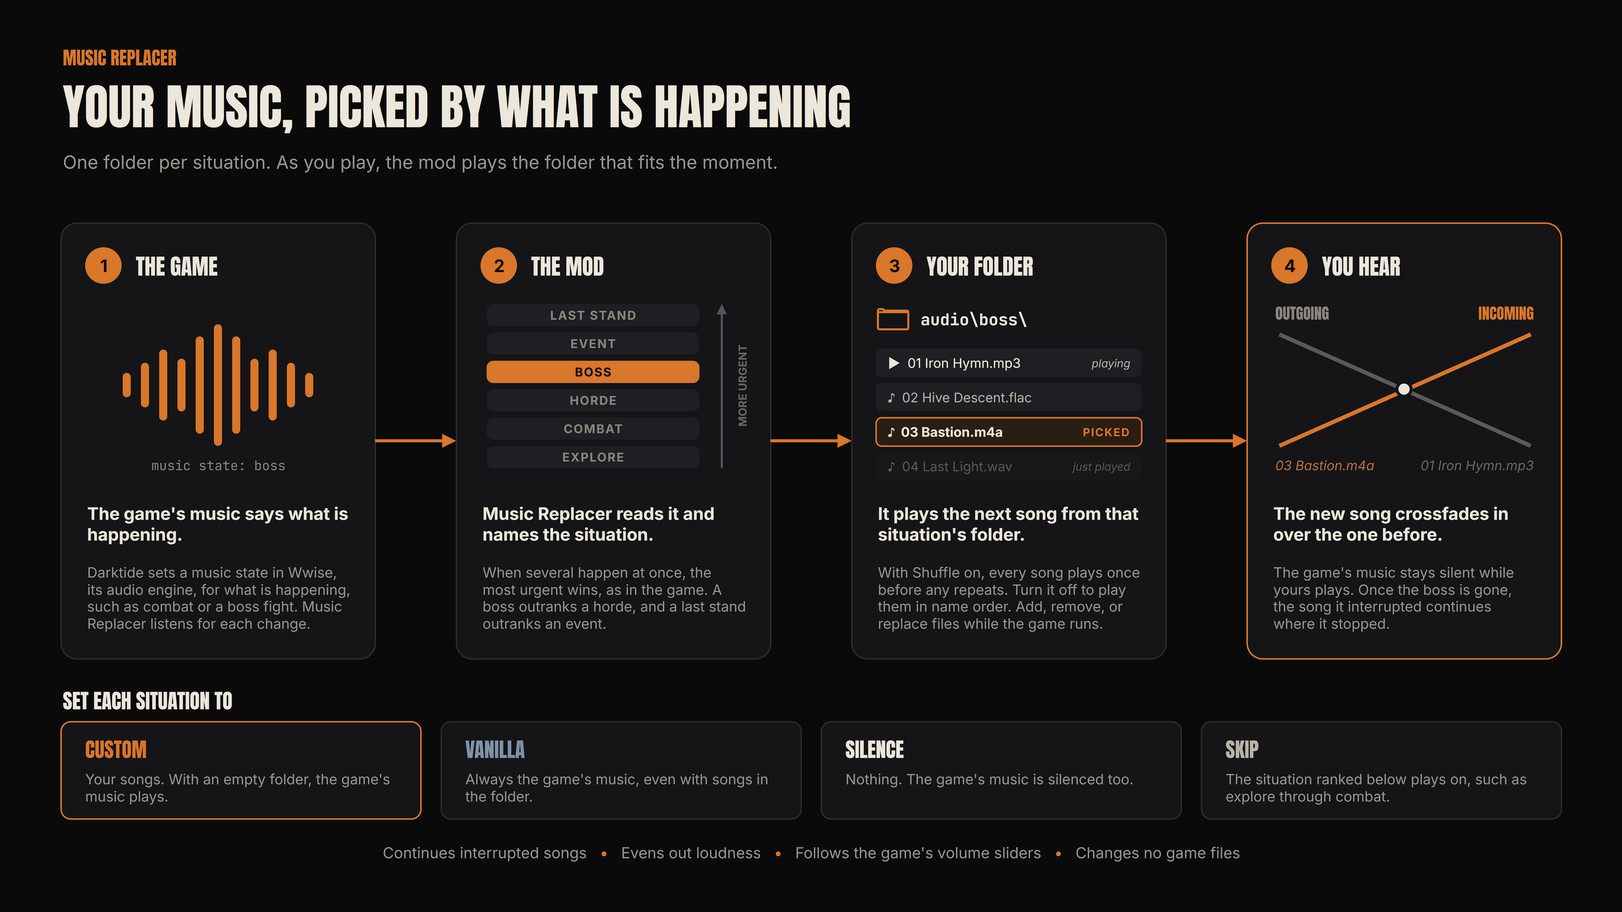
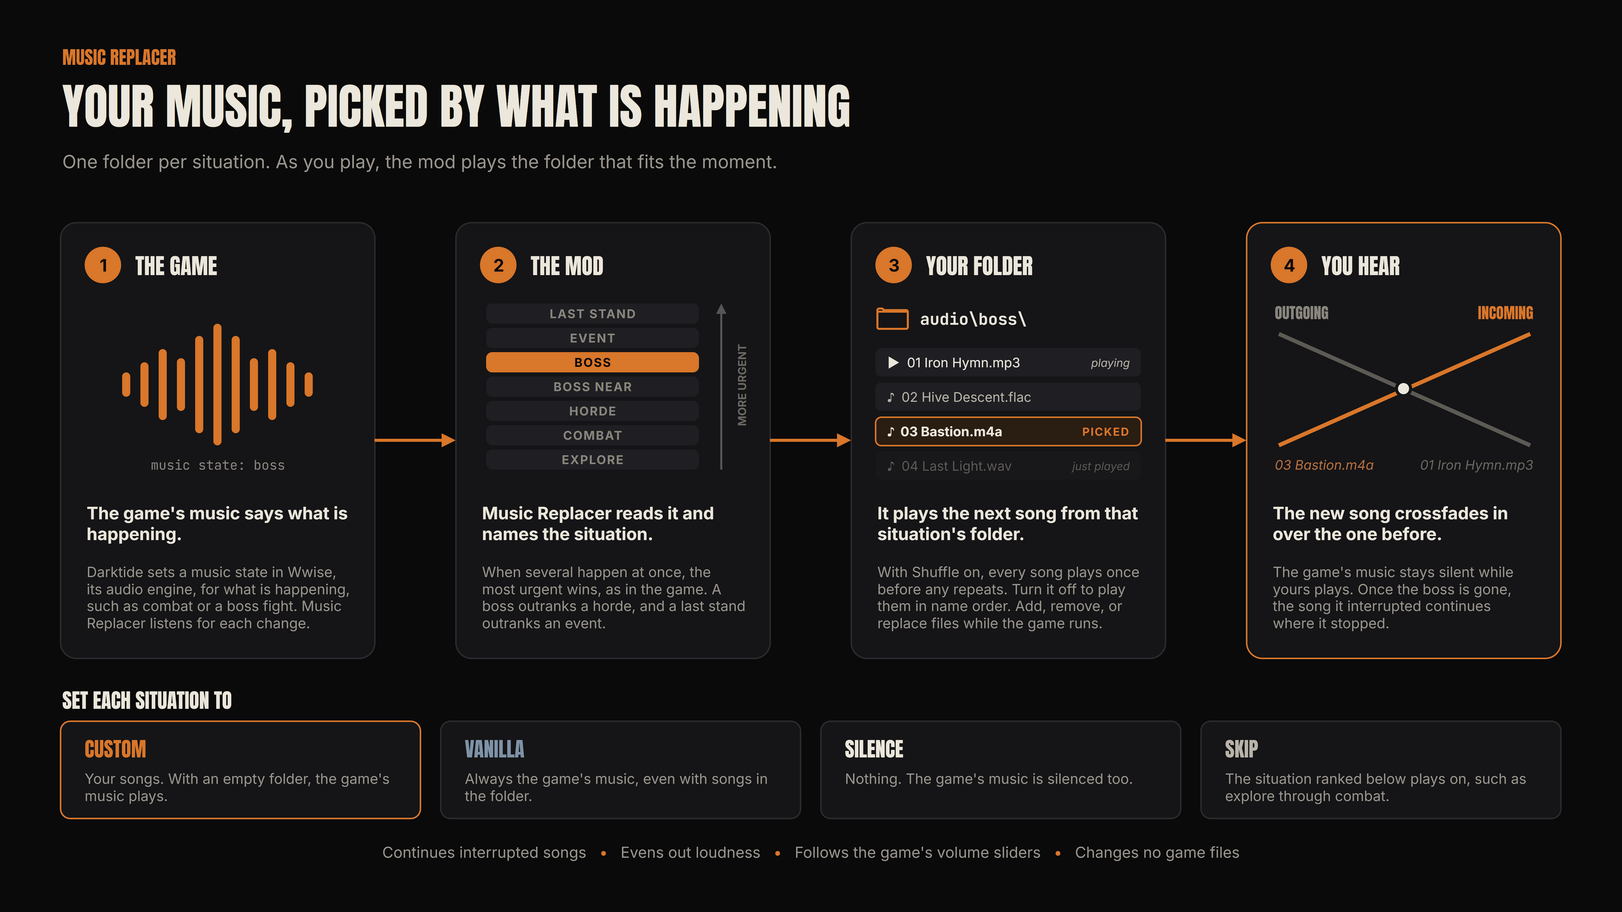
docs: call the situation Boss Near
The docs and the How it works image use the situation's new name.

Refs #6

diff --git a/docs/settings.md b/docs/settings.md
@@ -18,7 +18,7 @@ Every setting of Music Replacer, with its default. The settings are in the in-ga
 | Shuffle | On | Plays each folder's songs in a random order, each once before any song repeats. A new round never starts with the song that ended the last one. A folder's round lasts until the game closes, so a short visit to a situation does not start it over. Turned off, each folder plays in the order File Explorer sorts it by name, where `2.mp3` comes before `10.mp3`, and starts over after its last song. A folder continues after the song it played last. A change takes effect at the next song. Turning Shuffle on also starts [Previous Song](#playback-controls) with no earlier songs, as a new situation does. |
 | Repeat Song | Off | Loops the song playing now with no gap added between its end and its start, and every song that starts after it, in any situation. Next Song, Previous Song, and a new situation still change the song. A change takes effect on the song playing now. Turned on in a song's last 4 seconds, the song starts over once it ends, and loops from then on. Turned off at that point after the song has looped, it plays through once more. A folder's only song loops whether it is on or off. |
 | Let Songs Finish | Off | When the music would switch to a situation that is no more urgent, such as from Combat back to Explore, the song playing now plays to its end first, and then that situation takes over. A looping song plays to the end of the pass it is in. A switch to a more urgent situation still happens at once, and so does a switch to the game's music, to silence, or to a situation with no songs. If the song's own situation comes back before the song ends, the song plays on as before. Next Song ends the wait at once, and so does turning the setting off. The debug overlay's Waiting row shows the situation that waits, such as `explore after this song`. |
-| Resume Songs | On | Explore, Combat, Mortis Trials Wave and Break, Expedition Combat, and Expedition Safe Room songs continue where they stopped when their music comes back. Horde, Boss Approaching, Boss, and Event songs also continue after an interruption by more urgent music, such as a boss during a horde or a last stand during an event, as long as that horde, boss, or event lasts. A new horde, boss fight, or event gets a new pick. A song that stopped in its last 10 seconds is not continued, unless it loops. A new song is picked once one ends on its own. Every mission and hub visit starts with fresh songs. Within one situation, a song from an override folder also continues when the music switches back to that folder, such as an Operation's stage or an Expedition's fight level. |
+| Resume Songs | On | Explore, Combat, Mortis Trials Wave and Break, Expedition Combat, and Expedition Safe Room songs continue where they stopped when their music comes back. Horde, Boss Near, Boss, and Event songs also continue after an interruption by more urgent music, such as a boss during a horde or a last stand during an event, as long as that horde, boss, or event lasts. A new horde, boss fight, or event gets a new pick. A song that stopped in its last 10 seconds is not continued, unless it loops. A new song is picked once one ends on its own. Every mission and hub visit starts with fresh songs. Within one situation, a song from an override folder also continues when the music switches back to that folder, such as an Operation's stage or an Expedition's fight level. |
 | Fade Length | 2 seconds | How long the music crossfades when the situation changes, and how long a song fades out at its end, from 0 to 10 seconds. A song that does not loop starts its end fade that long before it ends. A song loops when it is alone in its folder or [Repeat Song](#playback) is on. A song shorter than two fades fades in over its first half and out over its second. A song that gives way to the game's music or to silence always fades out over half a second. Set it to 0 to switch at once. |
 
 ## Playback Controls
@@ -99,17 +99,17 @@ The group shows one Situation dropdown, Explore by default, which lists every si
 
 | Setting | Default | What it does |
 |---|---|---|
-| Boss Music for Captains | Off | Counts captains as bosses, for Boss Approaching while one is near and Boss from its HP bar until the game reports it gone. A captain that comes as part of a mission event, such as the Karnak Twins, plays Event instead, which is more urgent than Boss. Off follows the game, which plays no boss music for captains. |
-| Boss Music for Weakened Monstrosities | Off | Counts weakened monstrosities as bosses, for Boss Approaching and Boss. A weakened monstrosity is one the game spawns with less than its full health. Off follows the game, which plays no boss music for weakened monstrosities. |
-| Boss Music for Daemonhosts | Off | Counts daemonhosts as bosses, for Boss Approaching while one is within Daemonhost Distance and Boss from its HP bar, which shows once it is angered, until the game reports it gone. Off follows the game, which plays no boss music for daemonhosts. |
-| Boss Distance | 80 m | How close a boss has to be for Boss Approaching to play, from 20 m to 160 m. It lets go once the boss is 40 m farther away than that, so moving back and forth at the edge keeps the music steady. The default is the distance the game's own boss music uses. Daemonhosts use Daemonhost Distance instead. |
-| Daemonhost Distance | 20 m | How close a daemonhost has to be for Boss Approaching to play, from 5 m to 80 m, with Boss Music for Daemonhosts on. It lets go once the daemonhost is 40 m farther away than that. The default is shorter than Boss Distance, since some levels keep you near a sleeping daemonhost for a long time. |
+| Boss Music for Captains | Off | Counts captains as bosses, for Boss Near while one is near and Boss from its HP bar until the game reports it gone. A captain that comes as part of a mission event, such as the Karnak Twins, plays Event instead, which is more urgent than Boss. Off follows the game, which plays no boss music for captains. |
+| Boss Music for Weakened Monstrosities | Off | Counts weakened monstrosities as bosses, for Boss Near and Boss. A weakened monstrosity is one the game spawns with less than its full health. Off follows the game, which plays no boss music for weakened monstrosities. |
+| Boss Music for Daemonhosts | Off | Counts daemonhosts as bosses, for Boss Near while one is within Daemonhost Distance and Boss from its HP bar, which shows once it is angered, until the game reports it gone. Off follows the game, which plays no boss music for daemonhosts. |
+| Boss Distance | 80 m | How close a boss has to be for Boss Near to play, from 20 m to 160 m. It lets go once the boss is 40 m farther away than that, so moving back and forth at the edge keeps the music steady. The default is the distance the game's own boss music uses. Daemonhosts use Daemonhost Distance instead. |
+| Daemonhost Distance | 20 m | How close a daemonhost has to be for Boss Near to play, from 5 m to 80 m, with Boss Music for Daemonhosts on. It lets go once the daemonhost is 40 m farther away than that. The default is shorter than Boss Distance, since some levels keep you near a sleeping daemonhost for a long time. |
 
 ## Music Holds
 
 Each hold goes from 0 to 30 seconds. Set one to 0 to follow the game exactly.
 
-A hold is there for a signal that the game turns off and on again within what is one stretch of music. Boss and Boss Approaching need none. A boss's HP bar never drops while it lives, and a boss stays near until it is 40 m beyond its distance, which keeps that music steady by distance instead.
+A hold is there for a signal that the game turns off and on again within what is one stretch of music. Boss and Boss Near need none. A boss's HP bar never drops while it lives, and a boss stays near until it is 40 m beyond its distance, which keeps that music steady by distance instead.
 
 | Setting | Default | What it does |
 |---|---|---|

diff --git a/README.md b/README.md
@@ -30,7 +30,7 @@ Everything below is optional detail.
 | …make my songs louder or quieter. | Change Custom Music Volume in the Volume group. For one situation alone, pick it under Music per Situation and change its Volume. |
 | …keep the game's music in one situation. | Leave its folder empty, or set it to Vanilla under Music per Situation in the mod options. |
 | …have no music at all in one situation. | Set it to Silence under Music per Situation. |
-| …hear boss music only once the fight starts. | Set Boss Approaching to Skip under Music per Situation. Your `boss` songs then start with the boss's HP bar. |
+| …hear boss music only once the fight starts. | Set Boss Near to Skip under Music per Situation. Your `boss` songs then start with the boss's HP bar. |
 | …hear boss music sooner or later as a boss comes near. | Change Boss Distance in the Boss Music group, 80 m by default. |
 | …hear no boss music, only what plays around it. | Set Boss to Skip under Music per Situation. Skip works for the other mission situations too, as [Choosing what plays](#choosing-what-plays) lists. |
 | …hear my own music in cutscenes. | Put songs into `cutscene` and set Cutscene to Custom under Music per Situation, since cutscenes keep the game's music by default. |
@@ -87,7 +87,7 @@ In a mission, the most urgent situation going on plays. From the most urgent dow
 1. Last Stand.
 2. Event, Mortis Trials Wave, and Expedition Extraction.
 3. Boss.
-4. Boss Approaching.
+4. Boss Near.
 5. Horde.
 6. Combat and Expedition Combat.
 7. Explore, Mortis Trials Break, and Expedition Safe Room.
@@ -106,7 +106,7 @@ Victory and Defeat take over from all of them.
 | **`explore`** | In a mission while nothing threatens you. |
 | **`combat`** | In a mission while enemies attack you, outside a horde or a boss fight. |
 | **`horde`** | During a horde. |
-| `boss_approaching` | While a boss is near you, before its fight starts. A boss comes near within Boss Distance, 80 m by default, the distance the game's own boss music uses, and stays near until it is 40 m farther away than that, or gone. It is more urgent than a horde, as the game's own boss music is. With its folder empty, it does what Boss is set to, so your `boss` songs start as the boss comes near and go on playing into the fight. |
+| `boss_near` | While a boss is near you, before its fight starts. A boss comes near within Boss Distance, 80 m by default, the distance the game's own boss music uses, and stays near until it is 40 m farther away than that, or gone. It is more urgent than a horde, as the game's own boss music is. With its folder empty, it does what Boss is set to, so your `boss` songs start as the boss comes near and go on playing into the fight. |
 | **`boss`** | In a boss fight, from the moment the boss's HP bar shows until the game reports the boss gone. A Chaos Spawn, a Beast of Nurgle, or a Plague Ogryn shows it once it is first hurt, and an Ogryn Houndmaster once it notices you. Captains and daemonhosts count only with their settings on, and so do weakened monstrosities, which the game's own boss music leaves out. A boss that shows no HP bar, such as Rodin Karnak in Spillway, has no Boss, and his fight plays `event`. Neither boss folder plays in an Expedition, which keeps to its own situations. |
 | `event` | While a mission event plays its music, such as a holdout, a hacking event, an escape, or a scripted boss fight like those in Spillway. It is more urgent than Boss, Horde, Combat, and Explore, as the game's own event music is. In Operations, such as Rolling Steel and No Man's Land, it plays for the whole mission, since the game scripts their music from start to end. The prologue, Tancred Bastion, scripts its music the same way, so it mostly plays this folder too. |
 | `last_stand` | While only one player of the team is left alive. It is more urgent than every other mission situation. Victory and Defeat still take over. |
@@ -132,7 +132,7 @@ The Music per Situation group has a Situation dropdown that lists every folder a
 | Custom | Your songs from the situation's folder. With an empty folder, the game's music plays. This is the default for every situation but Cutscene. |
 | Vanilla | Always the game's music, even with songs in the folder, so you can turn one situation off without moving files. |
 | Silence | Nothing. The game's music is silenced too. |
-| Skip | The next less urgent situation, as if this one were not going on, such as Explore through fights with Combat skipped. While your songs or silence play instead, the skipped situation's own game music stays silenced. With that situation set to Vanilla, the game's music plays as the game picks it. Skip is offered for Combat, Horde, Boss Approaching, Boss, Event, Last Stand, Mortis Trials Wave, Expedition Combat, and Expedition Extraction. |
+| Skip | The next less urgent situation, as if this one were not going on, such as Explore through fights with Combat skipped. While your songs or silence play instead, the skipped situation's own game music stays silenced. With that situation set to Vanilla, the game's music plays as the game picks it. Skip is offered for Combat, Horde, Boss Near, Boss, Event, Last Stand, Mortis Trials Wave, Expedition Combat, and Expedition Extraction. |
 
 A changed choice applies at once, even to the situation that is playing.
 

diff --git a/docs/wwise-events.md b/docs/wwise-events.md
@@ -21,7 +21,7 @@ The game's settings also list `music_game_state` values that have not shown up i
 
 Wwise reports "no value" as the word `None`.
 
-* `music_combat` is `normal` while enemies are attacking you. It flips back to `None` every few seconds in a fight, and the Combat Music Hold setting bridges those gaps. `horde_low` and `horde_high` mean a horde is on you. Every horde starts at `horde_high` and drops to `horde_low` as it thins out. The game reports a horde only while at least 5 enemies are aggroed, and the Horde Music Hold setting bridges the moments it drops out. `boss` means a monstrosity has come within 80 m, and the game then keeps it, in place of the other values, for as long as more monstrosities than daemonhosts are alive, wherever they are. So the mod asks the game's own combat check again without its boss check, and combat and hordes follow that answer under it. The boss situations follow the bosses themselves: Boss Approaching their distance, and Boss their encounter windows. In an Expedition, the group carries the Expedition values in place of the others. These values follow how alert the enemy is, not how hard the fight is. The mod resolves `low_combat`, `med_combat`, and `high_combat` as `expedition_combat`, `safe_room` as `expedition_safe_room`, `extraction` as `expedition_extraction`, and `no_combat` as `explore`. The Combat Music Hold setting covers `expedition_combat` too.
+* `music_combat` is `normal` while enemies are attacking you. It flips back to `None` every few seconds in a fight, and the Combat Music Hold setting bridges those gaps. `horde_low` and `horde_high` mean a horde is on you. Every horde starts at `horde_high` and drops to `horde_low` as it thins out. The game reports a horde only while at least 5 enemies are aggroed, and the Horde Music Hold setting bridges the moments it drops out. `boss` means a monstrosity has come within 80 m, and the game then keeps it, in place of the other values, for as long as more monstrosities than daemonhosts are alive, wherever they are. So the mod asks the game's own combat check again without its boss check, and combat and hordes follow that answer under it. The boss situations follow the bosses themselves: Boss Near their distance, and Boss their encounter windows. In an Expedition, the group carries the Expedition values in place of the others. These values follow how alert the enemy is, not how hard the fight is. The mod resolves `low_combat`, `med_combat`, and `high_combat` as `expedition_combat`, `safe_room` as `expedition_safe_room`, `extraction` as `expedition_extraction`, and `no_combat` as `explore`. The Combat Music Hold setting covers `expedition_combat` too.
 * `music_zone` names the hub or the mission's area. It arrives before the music can start. The hub zone arrives about 10 seconds before the loading screen ends, and a mission zone partway through the briefing.
 * `music_game_state` says where the player is, as the table below lays out.
 * `music_objective` carries the last stand and mission event music. Some events set it to `None` for a few seconds between their stages, which the Event Music Hold setting bridges.
@@ -87,10 +87,10 @@ These lines also show up with Detailed Logging on:
 |---|---|
 | `[hold] combat quiet, holding combat for 8.0s more` | The game's state for that context went quiet, and its Music Holds setting keeps the context for the seconds shown. |
 | `[raw] music_combat under boss: None -> normal` | What the game's combat check reports with its boss check left out, while `music_combat` is `boss`. Combat and hordes follow it. |
-| `[boss] chaos_spawn approaching, 78 m away` | A boss came within its distance, so Boss Approaching can play. `which plays no boss music by its setting` follows for a captain, daemonhost, or weakened monstrosity whose setting is off. |
+| `[boss] chaos_spawn near, 78 m away` | A boss came within its distance, so Boss Near can play. `which plays no boss music by its setting` follows for a captain, daemonhost, or weakened monstrosity whose setting is off. |
 | `[boss] chaos_spawn let go, 121 m away` | That boss got more than 40 m farther away than its distance. |
 | `[raw] boss_encounter_start breed=chaos_spawn` | A boss's encounter window opened with its HP bar, named by its breed, and Boss starts if the boss counts. `weakened` follows for a weakened monstrosity. A breed that counts as a boss names the `boss` override folder. |
-| `[raw] boss_encounter_end breed=chaos_spawn` | That window closed, once the boss died or despawned, so its Boss ends and it no longer approaches. After a death, it can come a few seconds after the boss probe's `gone` line. |
+| `[raw] boss_encounter_end breed=chaos_spawn` | That window closed, once the boss died or despawned, so its Boss ends and it is no longer near. After a death, it can come a few seconds after the boss probe's `gone` line. |
 
 ## The boss probe
 

diff --git a/CHANGELOG.md b/CHANGELOG.md
@@ -12,7 +12,7 @@ What changes for players in each release of Music Replacer. The format follows [
 * A notice says how many songs the mod found and in how many folders, such as `Found 128 songs in 9 folders.`, once it has checked them at launch, after Rescan Audio Folders, and after your files change. With no songs, it says where to put them. When files were skipped, a second notice says how many and why: a format the mod does not play, such as `.ogg` or `.opus`, or a file Windows cannot open. `diagnostic.log` names each one.
 * A notice says how many songs Even Out Loudness measured once it has measured every song that needed it, such as `Even Out Loudness measured 12 songs.` Nothing shows when no song needed measuring.
 * A Toggle Debug Overlay key in the Debug group shows or hides the debug overlay, so you can check it in a mission without opening the mod options. It starts unbound.
-* Boss Approaching is a situation of its own, with a `boss_approaching` folder, for a boss that is near before its fight starts. It plays once the boss is within the new Boss Distance, 80 m by default, the distance the game's own boss music uses, until the boss is 40 m farther away than that, and is more urgent than Horde, as the game's own boss music is. With its folder empty, it does what Boss is set to, so your boss songs start as the boss comes near and go on playing into the fight.
+* Boss Near is a situation of its own, with a `boss_near` folder, for a boss that is near before its fight starts. It plays once the boss is within the new Boss Distance, 80 m by default, the distance the game's own boss music uses, until the boss is 40 m farther away than that, and is more urgent than Horde, as the game's own boss music is. With its folder empty, it does what Boss is set to, so your boss songs start as the boss comes near and go on playing into the fight.
 * Daemonhost Distance, 20 m by default, does the same for daemonhosts, with Boss Music for Daemonhosts on. Boss Music for Weakened Monstrosities, off by default, counts the weakened monstrosities the game's own boss music leaves out.
 * Music per Situation shows one Situation dropdown, and below it only the chosen situation's settings, so the menu no longer grows by a row per situation. Your choices for each situation stay as they were.
 * Each situation has a Volume, as a share of Custom Music Volume, and its own Shuffle, Repeat Song, and Fade Length, which follow the Playback group until you set them. Toggle Shuffle and Toggle Repeat Song change the situation's own choice while it has one, and the message names the situation.

diff --git a/docs/override-folders.md b/docs/override-folders.md
@@ -30,7 +30,7 @@ These folders can also hold the game's name for a moment inside them:
 | Folder | Names | When they play |
 |---|---|---|
 | `event` | The kind of event: `kill_event`, `kill_event_2`, `kill_event_3`, `twins_event`, `fortification_event`, `hacking_event`, `scanning_event`, `collect_event`, `demolition_event`, `escape_event`, `gauntlet_event`, `progression_stage_1` to `_4`, or `progression2_stage_1` to `_4`. In the prologue, `prologue_explore`, `prologue_combat`, or `prologue_end_event`. In an Operation, its stage: `operation_stage_1` to `_4` in Rolling Steel and `operation_2_stage_1` to `_4` in No Man's Land. | During that kind of event. |
-| `boss_approaching` | The same names as `boss`, and with Boss Music for Daemonhosts on, also `chaos_mutator_daemonhost`, which shows no HP bar. With the folder empty, it looks for the same names inside `boss`, such as `boss\chaos_spawn\`. | While that boss is near. With several, the one that came near first, until it is gone or far enough away. |
+| `boss_near` | The same names as `boss`, and with Boss Music for Daemonhosts on, also `chaos_mutator_daemonhost`, which shows no HP bar. With the folder empty, it looks for the same names inside `boss`, such as `boss\chaos_spawn\`. | While that boss is near. With several, the one that came near first, until it is gone or far enough away. |
 | `boss` | `chaos_spawn`, `chaos_beast_of_nurgle`, `chaos_plague_ogryn`, `chaos_ogryn_houndmaster`. With Boss Music for Captains on, also `renegade_captain`, `cultist_captain`, `renegade_twin_captain`, `renegade_twin_captain_two`. With Boss Music for Daemonhosts on, also `chaos_daemonhost` and `chaos_daemonhost_torment`. | While that boss is in the fight. With several, the one that came first, until it dies or despawns, so bosses that come back to back do not change the music each time. |
 | `hub` | `mission_ready` | While your party is matchmaking, from choosing a mission until it starts. |
 | `character_select` | `character_creation` | While you create a character. |

diff --git a/docs/troubleshooting.md b/docs/troubleshooting.md
@@ -11,7 +11,7 @@ Fixes for common problems, how to report one, and what the mod writes where.
 * **A situation plays the game's music although its folder has songs.** Turn on Debug Overlay and read the tag beside the situation. `Vanilla` means the situation is set to Vanilla. `Vanilla, no songs` means the mod found no playable file in that folder. `Vanilla, its songs would not play` means three songs in a row failed. `Vanilla, no audio output` means Windows audio is not available, or the mod gave up on it after repeated failures.
 * **Cutscenes play the game's music.** Cutscene is set to Vanilla by default. Put songs into `cutscene` and set Cutscene to Custom under Music per Situation, or set it to Silence.
 * **The same song plays every time.** A folder with only one song loops that song. Add more songs to the folder that plays, which the debug overlay's Folder line names.
-* **Boss music starts before the boss shows up.** Boss Approaching plays once a boss is within Boss Distance, 80 m by default, and with its folder empty it plays your `boss` songs. Set Boss Approaching to Skip under Music per Situation to start boss music with the boss's HP bar, or lower Boss Distance in the Boss Music group.
+* **Boss music starts before the boss shows up.** Boss Near plays once a boss is within Boss Distance, 80 m by default, and with its folder empty it plays your `boss` songs. Set Boss Near to Skip under Music per Situation to start boss music with the boss's HP bar, or lower Boss Distance in the Boss Music group.
 * **A red message says "diagnostic.log could not be opened".** The mod could not write `diagnostic.log` in `%APPDATA%\Fatshark\Darktide\MusicReplacer\`, so this launch is not logged, and the reason is in the game's console log. Your music still plays.
 * **Changed files are not picked up.** The mod lists the folders again 3 seconds after files stop changing. On a drive where Windows cannot report changes, such as some network drives, press Rescan Audio Folders.
 
